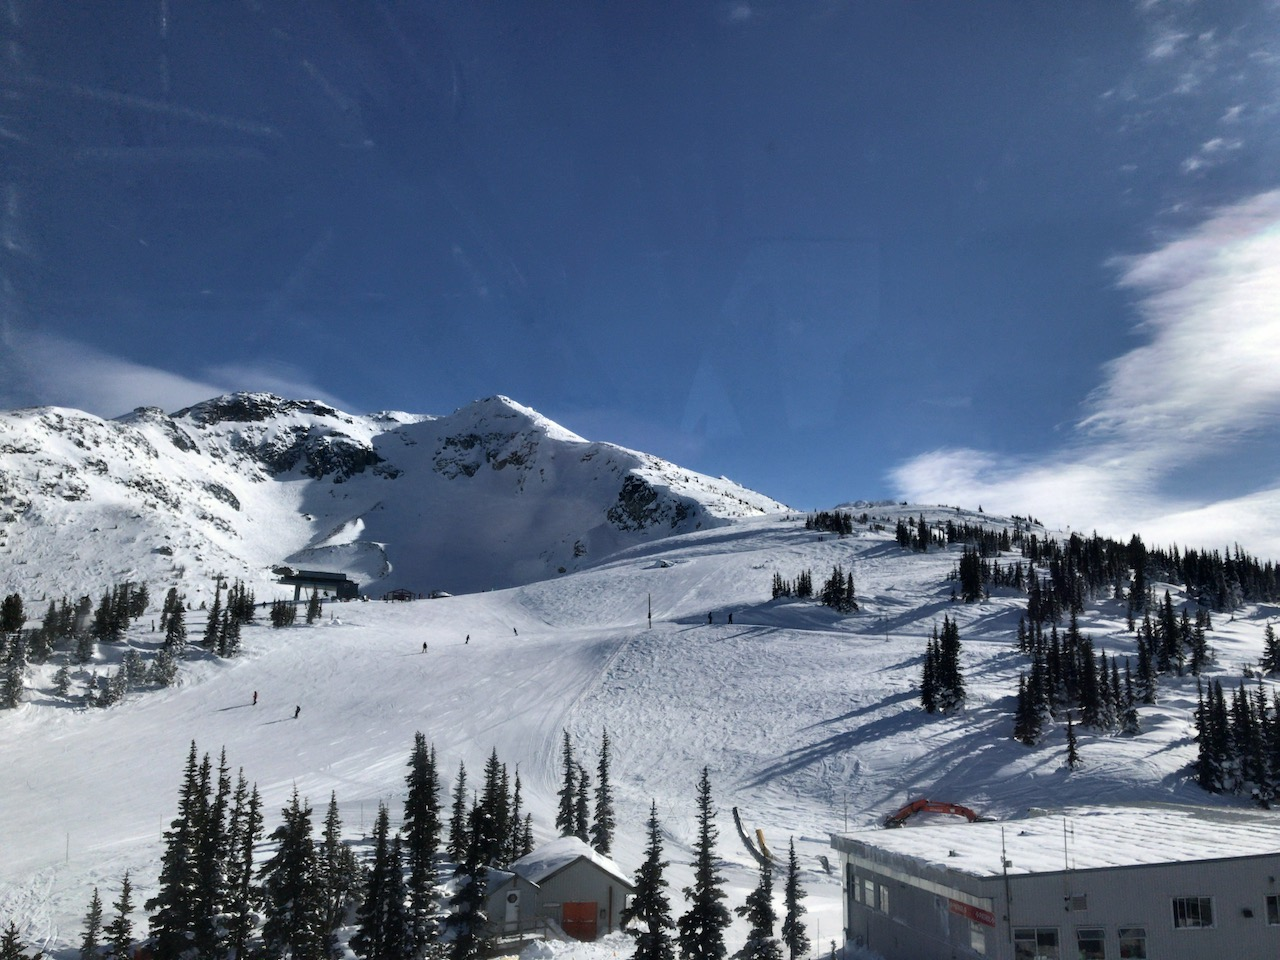
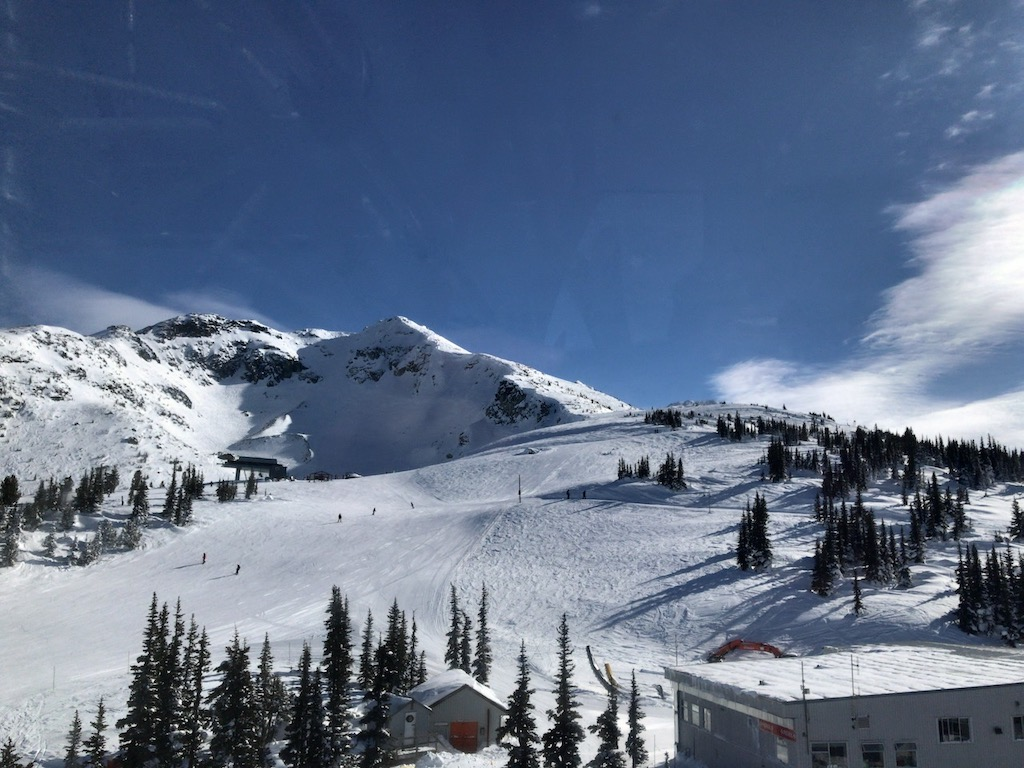
topページの画像をレスポンシブ対応に変更

diff --git a/index.html b/index.html
@@ -90,7 +90,8 @@
 
 
   <div class="welcome">
-    <img src="./IMAGES/TMU.jpg" alt="東京都立大学南大沢キャンパス" class="welcome__image">
+    <img src="./IMAGES/TMU.jpg" alt="東京都立大学南大沢キャンパス TMU Campus" class="welcome__image--s">
+    <img src="./IMAGES/TMU-l.jpeg" alt="東京都立大学南大沢キャンパス TMU Campus" class="welcome__image--l">
 
     <div class="welcome__message">
       <div class="welcomeMessageBox">
@@ -170,7 +171,8 @@
     </div>
 
     <div class="wide">
-      <img src="./IMAGES/TMUhinoLib.jpg" alt="東京都立大学日野キャンパス図書館" class="wide__image">
+      <img src="./IMAGES/TMUhinoLib.jpg" alt="東京都立大学日野キャンパス図書館 TMU Library" class="wide__image--s">
+      <img src="./IMAGES/TMUhinoLib-l.JPG" alt="東京都立大学日野キャンパス図書館 TMU Library" class="wide__image--l">
 
       <div class="wide__message">
       </div>

diff --git a/notes/study_rec/index.html b/notes/study_rec/index.html
@@ -97,7 +97,7 @@
         </h1>
         <div class="pageTitleInfo">
           <div class="pageTitleInfo__jpn">分野ごとの学習記録と使用した教材を紹介しています。</div>
-          <div class="pageTitleInfo__eng">This is a list of contents which I have studied and / or I am studying.</div>
+          <div class="pageTitleInfo__eng">This is a list of contents which I have studied and/or I am studying.</div>
         </div>
       </div>
 

diff --git a/CSS/top.css b/CSS/top.css
@@ -21,8 +21,11 @@ img {
   position: relative;
 }
 
-.welcome__image {
+.welcome__image--l, .welcome__image--s {
   width: 100%;
+}
+.welcome__image--l {
+  display: none;
 }
 
 .welcome__message{
@@ -66,6 +69,14 @@ img {
   }
   .welcomeMessageBox__eng{
     font-size: 2rem;
+  }
+}
+@media screen and (max-width:550px) {
+  .welcome__image--s {
+    display: none;
+  }
+  .welcome__image--l {
+    display: block;
   }
 }
 @media screen and (max-width:350px) {
